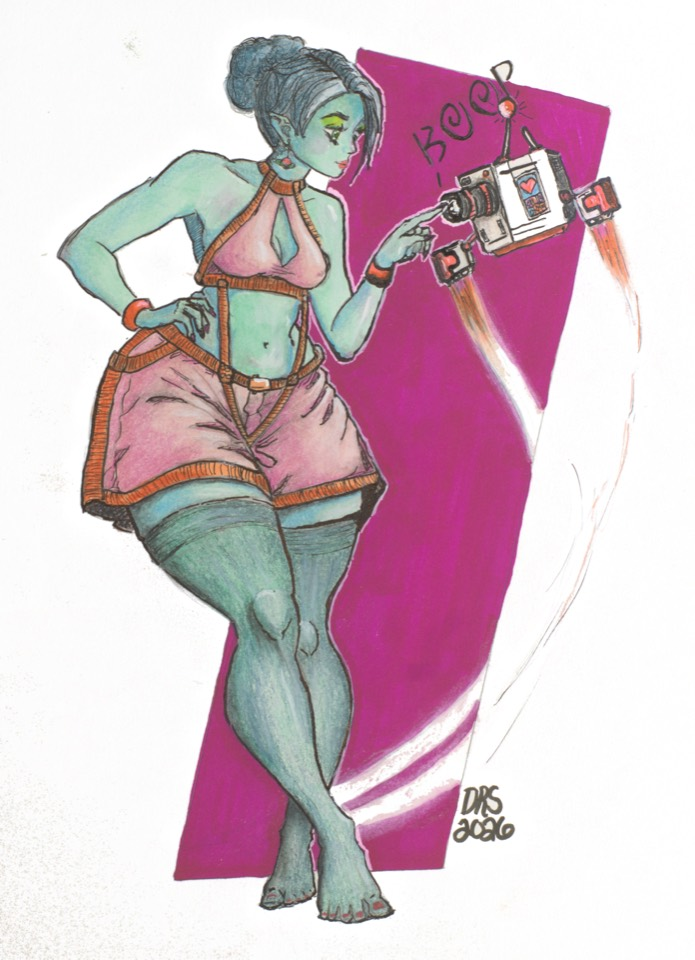
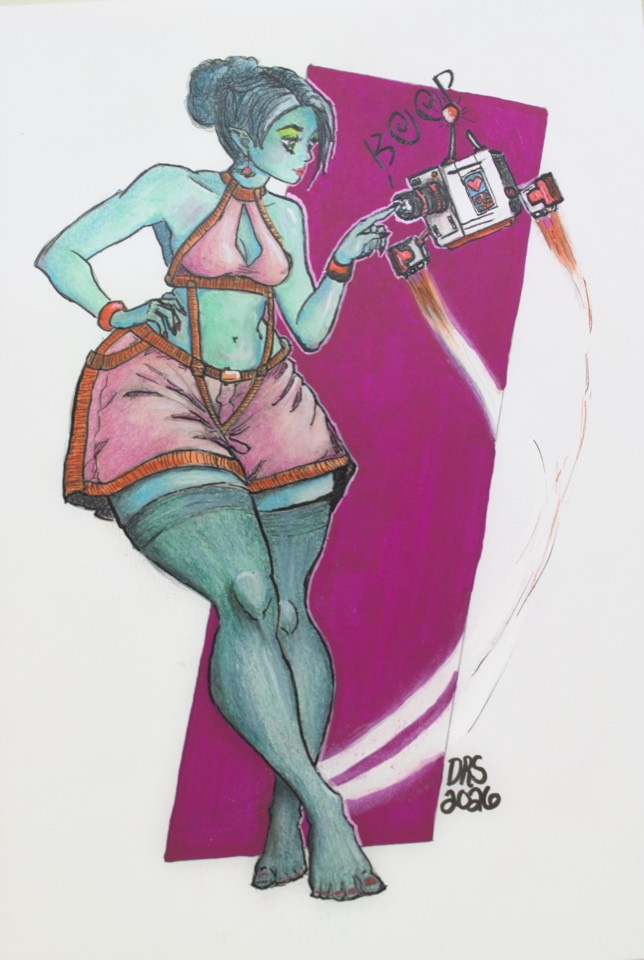
Replace three photographs and spell the dress title Sheer.

diff --git a/content/artworks.ts b/content/artworks.ts
@@ -58,8 +58,8 @@ export const artworks: Artwork[] = [
     displayOrder: 1,
     featured: true,
     medium,
-    dimensions: "13.1 × 17.32 in",
-    picture: pictureFor(d953Swatch, 6.2),
+    dimensions: "13.38 × 17.46 in",
+    picture: pictureFor(d953Swatch, 6.3),
   },
   {
     id: "guqin",
@@ -90,8 +90,8 @@ export const artworks: Artwork[] = [
       "A seated figure in a pale yellow blazer, burgundy skirt, and platform boots holds a saxophone and a lit cigarette, with a teal panel behind them.",
     displayOrder: 3,
     medium,
-    dimensions: "13.15 × 17.74 in",
-    picture: pictureFor(forDexterSwatch, 6.2),
+    dimensions: "12.74 × 17.18 in",
+    picture: pictureFor(forDexterSwatch, 6.3),
     collections: ["Jazz & Rhythm"],
   },
   {
@@ -113,7 +113,7 @@ export const artworks: Artwork[] = [
   {
     id: "too-shear",
     slug: "too-shear",
-    title: "Too Shear?",
+    title: "Too Sheer?",
     year: 2026,
     image: tooShear,
     thumbnail: tooShearPreview,
@@ -139,7 +139,7 @@ export const artworks: Artwork[] = [
       "A blue-green figure in a pink halter and shorts points at a small flying robot with a heart on its screen. A magenta panel is behind them, with the word Boop written above the robot.",
     displayOrder: 6,
     medium,
-    dimensions: "12.2 × 16.83 in",
+    dimensions: "13.24 × 19.73 in",
     picture: pictureFor(botBoopSwatch, 6.3),
   },
 ];
